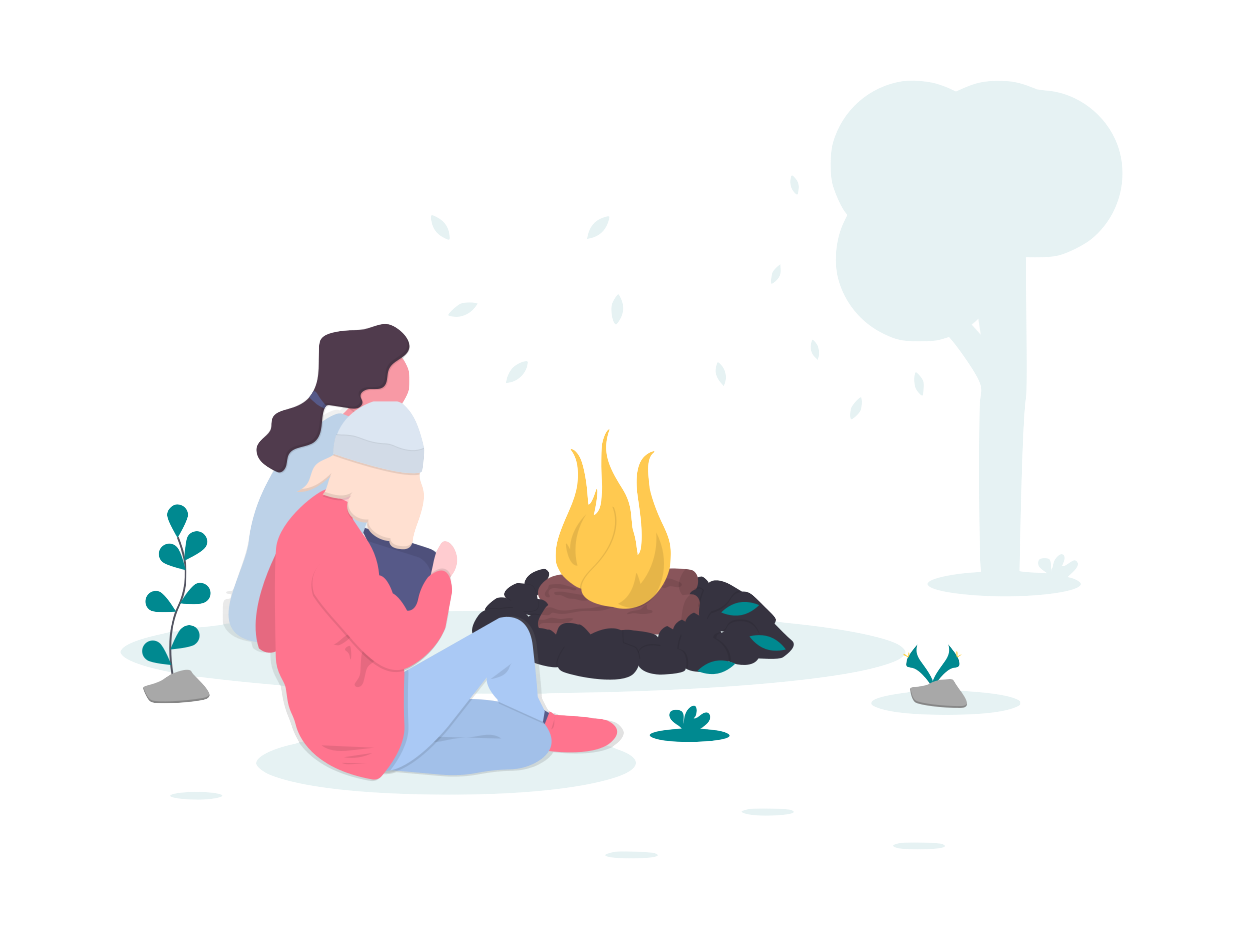
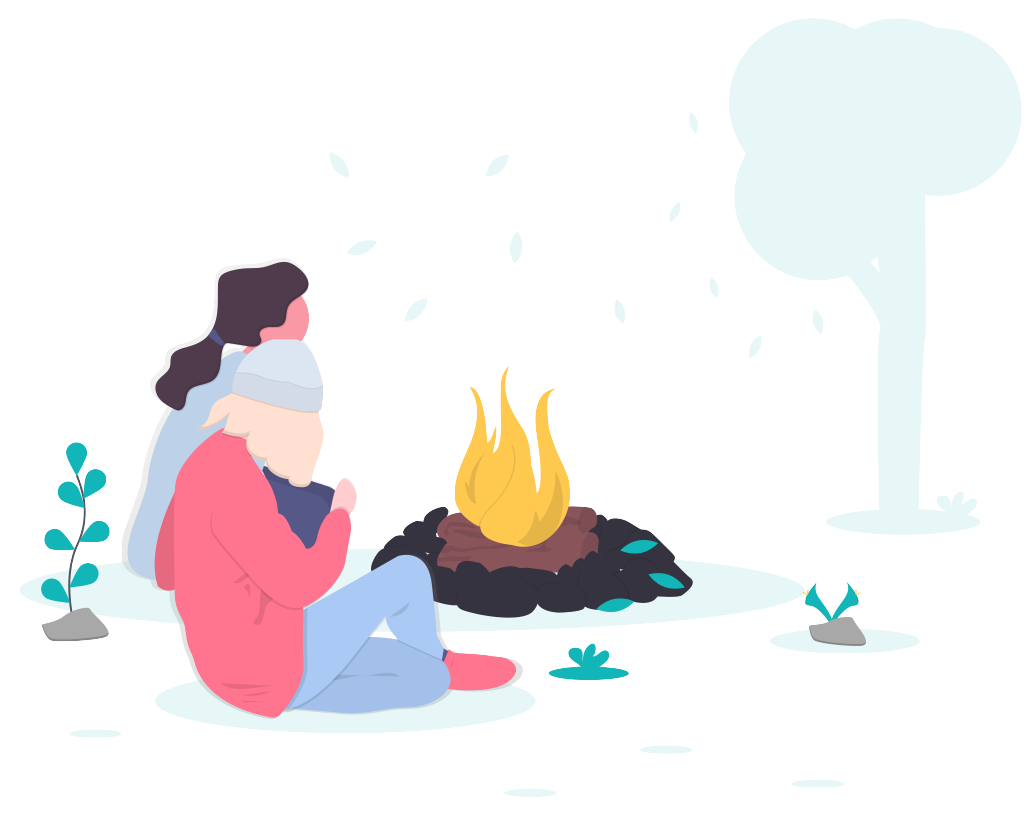
Optimise image colours and text copy

diff --git a/src/components/Home/Features/index.jsx b/src/components/Home/Features/index.jsx
@@ -5,7 +5,7 @@ const Features = () => {
   return (
 		<>
 			<div className={styles.container}>
-				<img src="/campfire.png" alt="camp fire" className={styles.image}></img>
+				<img src="/campfire.png" alt="camp fire" className={styles.imageAltTwo}></img>
 				<div className={styles.text}>
 					<p className={styles.title}>Weekly tribe check-ins</p>
 					<p className={styles.subtitle}>Tribes are a way to organise online gatherings around a ‘camp-fire’ and provides a structured forum through which tribe members can share stories, give advice or offer emotional support.</p>
@@ -19,10 +19,10 @@ const Features = () => {
 				<img src="/online.png" alt="video call" className={styles.imageAlt}></img>
 			</div>
 			<div className={styles.container}>
-				<img src="/graduation.png" alt="graduation cap" className={styles.imageAltTwo}></img>
+				<img src="/love.png" alt="graduation cap" className={styles.imageAltTwo}></img>
 				<div className={styles.text}>
-					<p className={styles.title}>Learn life skills</p>
-					<p className={styles.subtitle}>We've curated the best adoption resources available and developed structured training courses which centre around key life skills. We believe that adoption learning should be accessible to all and not break the wallet like therapy.</p>
+					<p className={styles.title}>Change destructive behaviours</p>
+					<p className={styles.subtitle}>We’ve developed skill pathways to help support the formation of positive habits. Unlearn negative beliefs, resolve painful feelings, improve your relationships. We believe that learning the skills to cope with adoption should be accessible to all and not break the wallet like therapy.</p>
 				</div>
 			</div>
 		</>

diff --git a/src/components/Home/Summary/index.jsx b/src/components/Home/Summary/index.jsx
@@ -7,7 +7,7 @@ const Summary = () => {
 			<img src="/people.png" alt="people" className={styles.image}></img>
 			<div className={styles.text}>
 				<p className={styles.title}>Made for adoptees, by adoptees</p>
-				<p className={styles.subtitle}>Our app helps adopted people everywhere to form meaningful connections and provides each individual with the necessary skills to live a more fulfilling life.</p>
+				<p className={styles.subtitle}>Our app helps adopted people everywhere to form meaningful connections and provides each individual with the skills necessary to live a more fulfilling life.</p>
 			</div>
 		</div>
   );

diff --git a/src/components/Nav/nav.module.scss b/src/components/Nav/nav.module.scss
@@ -48,7 +48,7 @@
 			cursor: pointer;
 			height: 48px;
 			width: 112px;
-			background-color: #13b6b8;
+			background-color: #3d5066;
     	color: white;
 			border-radius: 50px;
 			padding: 20px 30px;

diff --git a/src/components/Home/Headline/headline.module.scss b/src/components/Home/Headline/headline.module.scss
@@ -39,7 +39,7 @@
 			}
 
 			button {
-				background-color: #3d5066;
+				background-color: #13b6b8;
 				color: white;
 				width: 150px;
 				max-width: 200px;

diff --git a/src/components/Home/Summary/summary.module.scss b/src/components/Home/Summary/summary.module.scss
@@ -6,7 +6,7 @@
 	flex-direction: column;
 	align-items: center;
 	padding-top: 60px;
-	padding-bottom: 30px;
+	padding-bottom: 60px;
 
 	.image {
 		width: 600px;

diff --git a/src/components/Home/Features/features.module.scss b/src/components/Home/Features/features.module.scss
@@ -24,6 +24,7 @@
 		width: 500px;
 		margin-top: 20px;
 		text-align: left;
+		margin-left: 40px;
 
 		.title {
 			margin-bottom: 10px;
